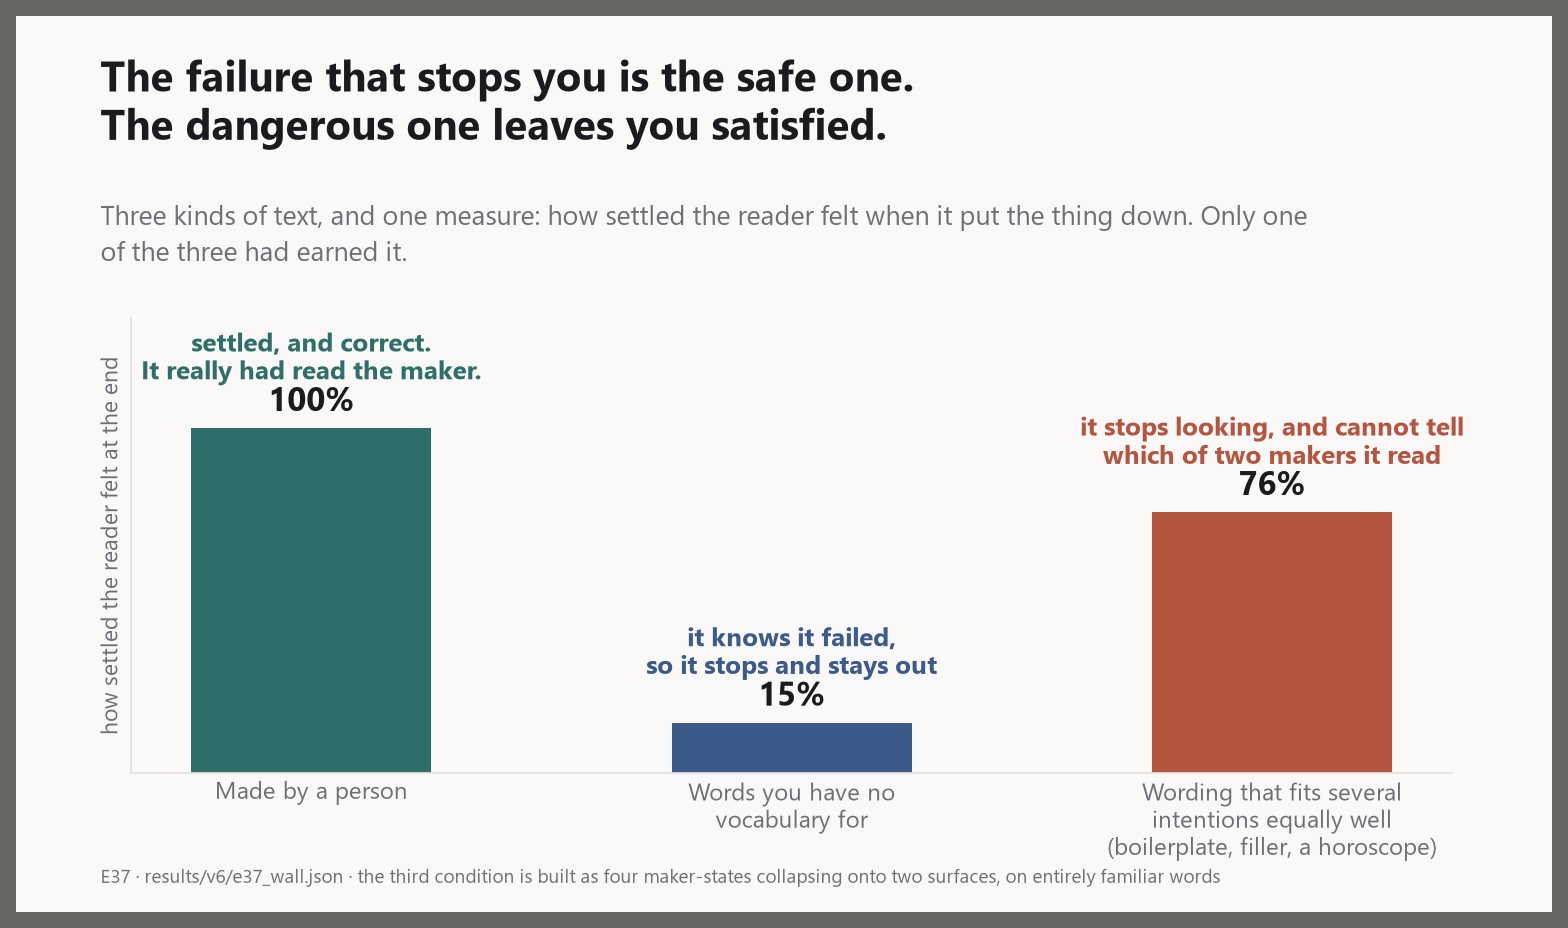
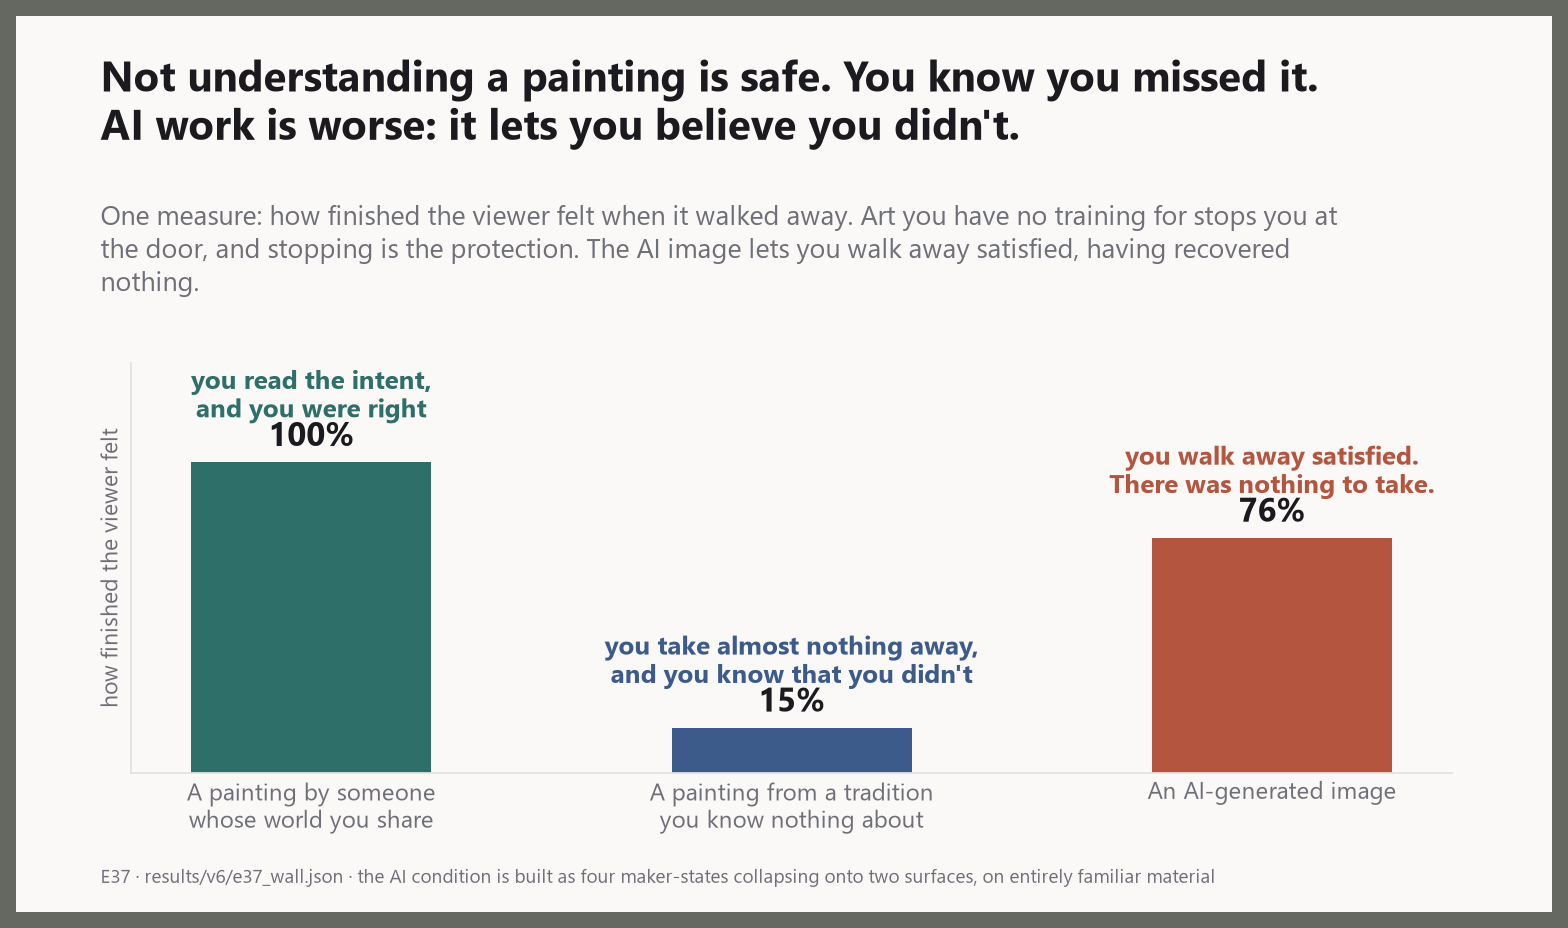
Plate 3: say which one is the AI one, because four versions did not
That omission is why it kept reading wrong to everybody, including me. The plate
had three conditions and never told anyone that the third IS the generated one.

The three, stated properly:

  a maker you can reach          familiar surface, recoverable purpose
  a maker you cannot reach       a REAL person with a REAL purpose in a
                                 vocabulary you do not have. This is what
                                 versions 1 to 5 believed machine content was,
                                 and it reads far more honestly as a tradition
                                 you have no training for, because that is what
                                 the construction actually contains
  the AI condition               what version 6 built to REPLACE that, because
                                 "legible and empty" is the complaint people
                                 make about generated text

Made concrete as three paintings, which is the register this belongs in.

And the middle bar turns out to be the control that makes the point. Being
stopped at the door is the PROTECTION: you take almost nothing away and you know
that you did, so you do not leave with a theory about a person you never
reached. The AI image lets you leave satisfied at 76%, nearly as finished as a
painting you genuinely read, having recovered nothing.

Not understanding something protects you. Being satisfied by it does not.

243 tests passing.

diff --git a/scripts/make_walkthrough_plates.py b/scripts/make_walkthrough_plates.py
@@ -113,10 +113,19 @@ def plate_02_interior_peak():
 def plate_03_the_wall():
     d = load("v6/e37_wall.json")
     c = d["cells"]
-    order = [("human", "Made by a person", HUMAN),
-             ("foreign", "Words you have no\nvocabulary for", COOL),
-             ("noninvertible", "Wording that fits several\nintentions equally well\n"
-                               "(boilerplate, filler, a horoscope)", MACHINE)]
+    # SAY WHICH ONE IS THE AI ONE. Four versions of this plate did not, and that is why it kept
+    # reading wrong to everybody including its author.
+    #
+    #   human          a maker you can reach: familiar surface, recoverable purpose
+    #   foreign        a REAL maker with a REAL purpose in a vocabulary you do not have. This is
+    #                  what versions 1 to 5 believed machine content was, and reads far more
+    #                  honestly as a person whose tradition you do not know, because that is what
+    #                  the construction actually contains
+    #   noninvertible  what version 6 built to REPLACE that, because "legible and empty" is the
+    #                  complaint people make about generated text. This is the AI condition
+    order = [("human", "A painting by someone\nwhose world you share", HUMAN),
+             ("foreign", "A painting from a tradition\nyou know nothing about", COOL),
+             ("noninvertible", "An AI-generated image", MACHINE)]
 
     # THE MEASURE CHANGED, AND THE OLD ONE WAS BURYING THE FINDING.
     #
@@ -147,11 +156,12 @@ def plate_03_the_wall():
     settled = [100.0 * (1.0 - e / logn) for e in ent]
 
     fig, ax = plate(
-        "The failure that stops you is the safe one.\nThe dangerous one leaves you satisfied.",
-        "Three kinds of text, and one measure: how settled the reader felt when it put the thing "
-        "down. Only one of the three had earned it.",
-        "E37 · results/v6/e37_wall.json · the third condition is built as four maker-states "
-        "collapsing onto two surfaces, on entirely familiar words")
+        "Not understanding a painting is safe. You know you missed it.\nAI work is worse: it lets you believe you didn't.",
+        "One measure: how finished the viewer felt when it walked away. Art you have no training "
+        "for stops you at the door, and stopping is the protection. The AI image lets you walk away "
+        "satisfied, having recovered nothing.",
+        "E37 · results/v6/e37_wall.json · the AI condition is built as four maker-states collapsing "
+        "onto two surfaces, on entirely familiar material")
 
     xs = np.arange(3)
     bars = ax.bar(xs, settled, width=0.5, color=[o[2] for o in order])
@@ -161,12 +171,12 @@ def plate_03_the_wall():
     ax.set_xticks(xs)
     ax.set_xticklabels([o[1] for o in order], fontsize=11)
     ax.set_ylim(0, 132)
-    clean_axis(ax, "how settled the reader felt at the end")
+    clean_axis(ax, "how finished the viewer felt")
     ax.set_yticks([])
 
-    notes = ["settled, and correct.\nIt really had read the maker.",
-             "it knows it failed,\nso it stops and stays out",
-             "it stops looking, and cannot tell\nwhich of two makers it read"]
+    notes = ["you read the intent,\nand you were right",
+             "you take almost nothing away,\nand you know that you didn't",
+             "you walk away satisfied.\nThere was nothing to take."]
     for i, (n, col) in enumerate(zip(notes, [HUMAN, COOL, MACHINE])):
         annotate(ax, i, settled[i] + 12, n, color=col, fontsize=11.5, weight="bold",
                  ha="center", va="bottom")

diff --git a/WALKTHROUGH.md b/WALKTHROUGH.md
@@ -70,24 +70,27 @@ block, at double scale, in every cell of the robustness sweep, and in every resa
 worst place to be is nearly understandable.** Total nonsense is safe; total clarity is safe; the
 danger is having just enough handholds to build a story on.
 
-### 6. The failure that leaves you satisfied
+### 6. Not understanding is the safe failure
 
-![The dangerous failure is the one that leaves you satisfied](figures/walkthrough/03_legible_and_empty.png)
+![Not understanding a painting is safe; AI work lets you believe you understood](figures/walkthrough/03_legible_and_empty.png)
 
-The model used to describe unreadable machine content as *written in a vocabulary you do not have*.
-That is not what people report. What they report is reading every word and finding nobody there.
+Three paintings, and one measure: how finished you felt walking away.
 
-So version 6 built a third condition, and the construction is the point: **four different maker
-states that emit only two distinct surfaces**, on words the reader knows perfectly. Not unreadable.
-Not empty. **Ambiguous by construction**, which is what wording looks like when several different
-intentions would produce it identically.
+**The middle one is the important control.** It is a real maker with a real purpose, working in a
+tradition you have no training for. Versions 1 to 5 of this model believed that was what machine
+content was. You take almost nothing from it, and the point is that **you know that.** Being stopped
+at the door is the protection: you do not walk off with a theory about a person you never reached.
 
-The two failures behave completely differently. Content you cannot read leaves the reader at 15%
-settled: it knows it failed, it stops, and it stays out. The ambiguous case leaves it at **76%
-settled**, nearly as finished as genuine human work, having stopped looking while unable to tell
-which of two makers it was reading.
+The one on the right is what version 6 built to replace that description, because *legible and
+empty* is the complaint people actually make about generated work. Four different maker states,
+only two distinct surfaces, on material you recognise completely. Nothing is hard to look at.
+Everything is easy to look at, and there is no route from any of it back to a state you could
+occupy.
 
-**The failure that stops you protects you. The one that satisfies you does not.**
+So you finish it. **76% settled, nearly as done as with a painting you genuinely read**, having
+recovered nothing and unable to tell which of two makers you were looking at.
+
+**Failing to understand something protects you. Being satisfied by it does not.**
 
 ### 7. Two kinds of damage
 
